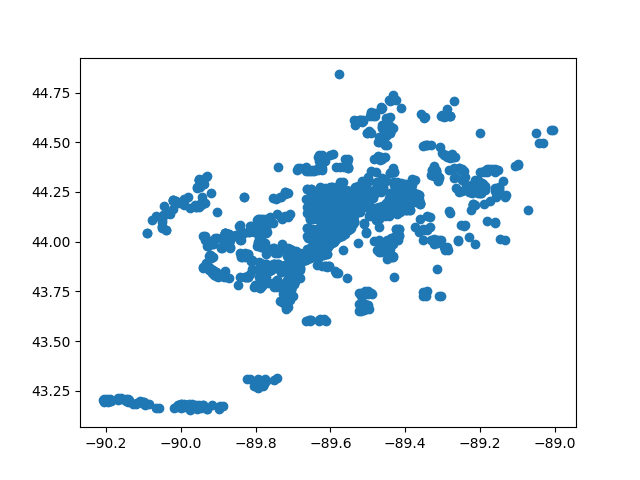
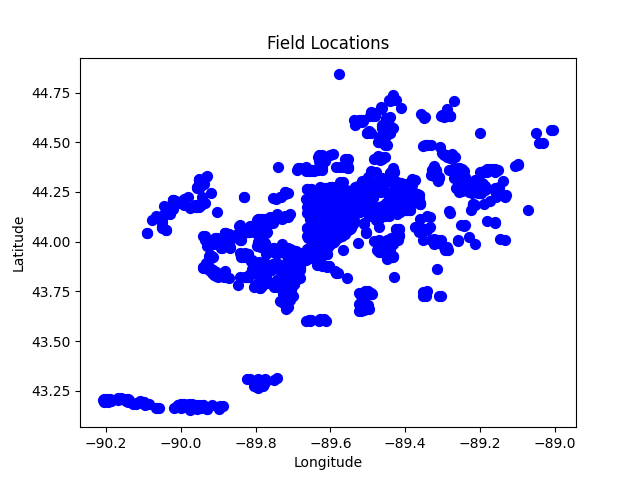
Implemented clustering via K-Means
K-Means was implemented using the SciKit learn library and was plotted using matplotlib. Also cleaned up some of the code and made the interface for interacting with CollectData.py nicer.

diff --git a/CollectData.py b/CollectData.py
@@ -4,6 +4,7 @@ import numpy as np
 from math import cos, asin, sqrt, pi
 import pandas as pd
 import matplotlib.pyplot as plt
+from sklearn.cluster import KMeans
 
 
 # Read the CSV file and extract important information into a dictionary
@@ -17,7 +18,7 @@ def read_csv(csv_file_path='./data/final_data_for_modeling.csv'):
             reader = csv.DictReader(csvfile)
             count = 0
             for row in reader:
-                #if count > 20:
+                #if count > 200:
                 #    break
                 count += 1
                 field_fvid = row['field_fvid']
@@ -80,39 +81,83 @@ def create_distance_matrix(field_data, cutoff=10000):
 # Plotting the coordinates using matplotlib to visualize the field locations
 def plot_coordinates(field_data, output_path='./out/field_locations.png'):
     # Prepare data for plotting
-    plot_data = {'Latitude': [], 'Longitude': []}
-    for _, (lat, lng, _) in field_data.items():
+    plot_data = {'Latitude': [], 'Longitude': [], 'Cluster': []}
+    for _, (lat, lng, _, *rest) in field_data.items():
         plot_data['Latitude'].append(lat)
         plot_data['Longitude'].append(lng)
+        # Use the fourth field (cluster) if it exists, otherwise default to None
+        plot_data['Cluster'].append(rest[0] if len(rest) > 0 else None)
 
     # Convert to a format suitable for plotting
     df = pd.DataFrame(plot_data)
 
-    plt.scatter(x=df['Longitude'], y=df['Latitude'])
-    #plt.show()
+    # If 'Cluster' column has valid data, use it for coloring
+    if df['Cluster'].notnull().all():
+        plt.scatter(x=df['Longitude'], y=df['Latitude'], c=df['Cluster'], cmap='viridis', s=50)
+    else:
+        plt.scatter(x=df['Longitude'], y=df['Latitude'], color='blue', s=50)
+
+    plt.xlabel('Longitude')
+    plt.ylabel('Latitude')
+    plt.title('Field Locations')
+    #plt.colorbar(label='Cluster') if df['Cluster'].notnull().all() else None
+
     # Save the plot to a PNG file
-    output_plot_path = './out/field_locations.png'
-    plt.savefig(output_plot_path, format='png')
+    plt.savefig(output_path, format='png')
+    plt.close()
+    
+#Add a feature to this method that gives the points on the plot color based on the fourth field of the field data generated by the KMeans algorithm. If the fourth field is not there, leave the color as default.    
+
+    
+    
+def cluster_coordinates(field_data, n_clusters=5, iters=2000, random_state=42):
+    # Prepare data for clustering
+    coordinates = np.array([[lat, lng] for lat, lng, _ in field_data.values()])
+    
+    # Perform KMeans clustering
+    kmeans = KMeans(n_clusters=n_clusters, max_iter=iters, random_state=random_state)
+    kmeans.fit(coordinates)
+    
+    # Add cluster labels to the field data
+    for i, fvid in enumerate(field_data.keys()):
+        field_data[fvid] = (*field_data[fvid], kmeans.labels_[i])
+    
+    return field_data
     
 
 
 
+
 # Query the user for their preferences
-calculate_distance_matrix = input("Calculate the distance matrix? (y/n): ").strip().lower() == 'y'
-plot_coordinates = input("Plot the coordinates? (y/n): ").strip().lower() == 'y'
+create_distance_matrix_in = input("Calculate the distance matrix? (y/n): ").strip().lower() == 'y'
+plot_coordinates_in = input("Plot the coordinates? (y/n): ").strip().lower() == 'y'
+clustered_in = False
+if (plot_coordinates_in):
+    clustered_in = input("Cluster the coordinates before plotting? (y/n): ").strip().lower() == 'y'
 
-CUTOFF = 10000  # Default cutoff distance in meters
-plot_coordinates_path = './out/field_locations.png'
-
+CUTOFF = 10000  # Cutoff distance in meters for the distance matrix
+plot_coordinates_path_unclustered = './out/field_locations.png'
+plot_coordinates_path_clustered = './out/field_locations_clustered.png'
+CLUSTERS = 50   # Number of clusters for KMeans
 
 
 field_data = read_csv('./data/final_data_for_modeling.csv')
 print("Read data from CSV file successfully.")
 
-if (calculate_distance_matrix):
+if (create_distance_matrix_in):
     create_distance_matrix(field_data, cutoff=CUTOFF)
     print("Distance matrix saved to './data/distances.csv'.")
 
-if (plot_coordinates):
-    plot_coordinates(field_data, output_path=plot_coordinates_path)
-    print(f"Plot saved to '{plot_coordinates_path}'.")
+if (plot_coordinates_in):
+    if clustered_in:
+        cluster_coordinates(field_data, n_clusters=50)
+        print("Coordinates clustered successfully.")
+        plot_coordinates(field_data, output_path=plot_coordinates_path_clustered)
+        print(f"Plot saved to '{plot_coordinates_path_clustered}'.")
+    else:
+        plot_coordinates(field_data, output_path=plot_coordinates_path_unclustered)
+        print(f"Plot saved to '{plot_coordinates_path_unclustered}'.")
+
+
+
+#print("Field data:", field_data)
